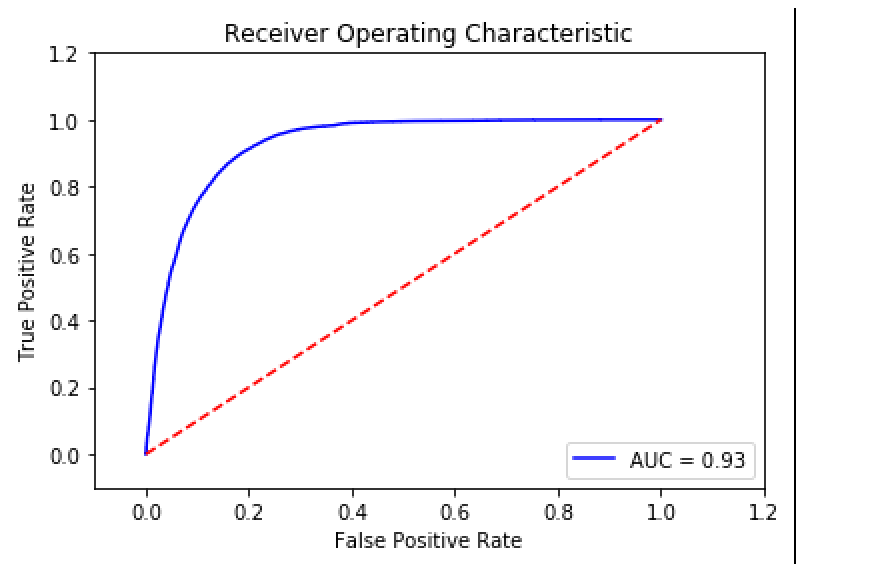
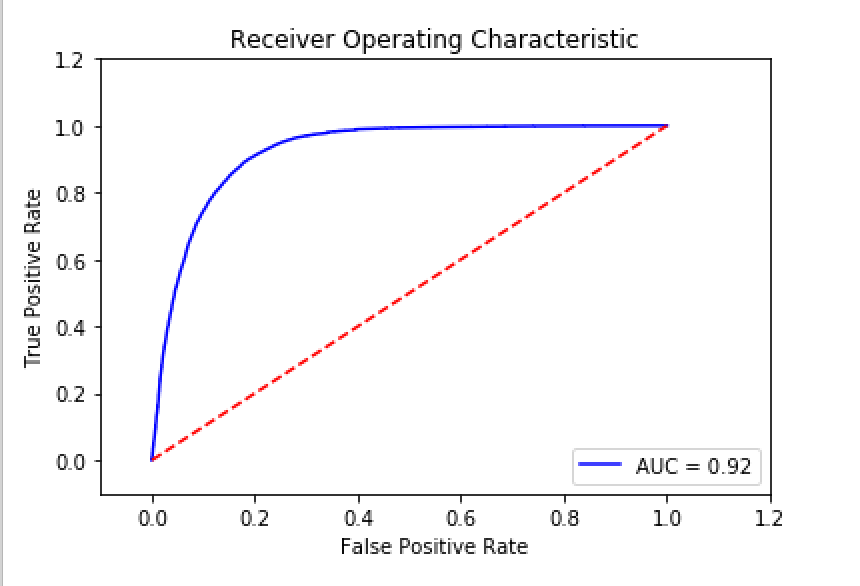
Huge Change, finalizing all of the code to turn in

diff --git a/neural_net_with_custom_splits.py b/neural_net_with_custom_splits.py
@@ -1,9 +1,9 @@
-!/usr/bin/env python2
+#!/usr/bin/env python2
 # -*- coding: utf-8 -*-
 """
 Created on Thu Jun  1 09:58:22 2017
 
-@author: vikashsingh
+@author: vikashsingh and dharma naidu
 """
 
 #CS 188 Medical Imaging Project 
@@ -29,9 +29,9 @@ from keras.optimizers import SGD
 
 
 rows_to_train = 50000
-data = pd.read_csv('~/Desktop/cs188TD.csv', header=None) 
+data = pd.read_csv('~/Desktop/cs188TD.csv', header=None)  
 
-print("Data loaded New")
+print("Data loaded New") 
 
 print(data.shape)
 data=data.dropna()
@@ -51,9 +51,17 @@ uniquepatients=data[0].unique()
 globpred=[]
 globy_test=[]
 for x in range(0,10):
-    testpatients=random.sample(uniquepatients, 6)
-    print(testpatients)
+    testlength=0
+    #Ensure that the test set has at least 5000 cases for each fold of validation
+    while(testlength<5000):
+        x=6
+        testpatients=random.sample(uniquepatients, x)
+        print(testpatients)
     
+        testdata=data[data[0].isin(testpatients)]
+        testlength=testdata.shape[0]
+        x+=1; 
+        
     testdata=data[data[0].isin(testpatients)]
     traindata=data[-(data[0].isin(testpatients))]
     #print(testdata.shape)
@@ -71,13 +79,16 @@ for x in range(0,10):
     testdataY=np.array(testdataY)
     #gnb=GaussianNB()
     #gnb.fit(traindataX, traindataY)
-    
     model = Sequential()
-    model.add(Dense(39, input_dim=618,init='uniform', activation='relu'))  
-   # model.add(Dense(39,init='uniform', activation='sigmoid'))
-    model.add(Dense(13,init='uniform', activation='sigmoid'))
-    model.add(Dense(6, init='uniform', activation='relu'))
+    model.add(Dense(19, input_dim=618,init='uniform', activation='sigmoid'))  
+    model.add(Dense(15, init='uniform', activation='sigmoid'))
+    model.add(Dense(10, init='uniform', activation='sigmoid'))
+    model.add(Dense(5, init='uniform', activation='sigmoid'))
     model.add(Dense(1, init='uniform', activation='sigmoid')) 
+
+
+
+
     print("Model started") 
 
 #odel.compile(loss='mse',  optimizer='adam', metrics=['accuracy'])
@@ -85,7 +96,7 @@ for x in range(0,10):
     model.compile(loss='binary_crossentropy', optimizer='adam', metrics=['accuracy']) 
     print("Model compiled")
     #verbose=0
-    model.fit(traindataX,traindataY, nb_epoch=100, batch_size=9, verbose=0) 
+    model.fit(traindataX,traindataY, epochs=10, batch_size=9, verbose=0) 
     
     predictionsproba = model.predict(testdataX) 
     print(roc_auc_score(testdataY, predictionsproba))
@@ -107,4 +118,4 @@ plt.ylim([-0.1,1.2])
 plt.ylabel('True Positive Rate')
 plt.xlabel('False Positive Rate') 
 plt.show()
-#plt.savefig("savedFigs/gnb") 
+#plt.savefig("savedFigs/gnb") a

diff --git a/neuralnet.py b/neuralnet.py
@@ -48,7 +48,7 @@ Y = Y.as_matrix()
 AUC=[]
 cvscores=[]
 
-kfold = StratifiedKFold(y = Y, n_folds = 3, shuffle = True, random_state = 3) 
+kfold = StratifiedKFold(y = Y, n_folds = 10, shuffle = True, random_state = 3) 
 
     
 model = Sequential()
@@ -58,10 +58,8 @@ globy_test=[]
 
 for i, (train, test) in enumerate(kfold):
     model = Sequential()
-    model.add(Dense(60, input_dim=618,init='uniform', activation='relu'))  
-    model.add(Dense(39,init='uniform', activation='sigmoid'))
-    model.add(Dense(20,init='uniform', activation='sigmoid'))
-    model.add(Dense(10, init='uniform', activation='relu'))
+    model.add(Dense(10, input_dim=618,init='uniform', activation='sigmoid'))  
+    model.add(Dense(5,init='uniform', activation='sigmoid'))
     model.add(Dense(1, init='uniform', activation='sigmoid'))
     print("Model started")
 
@@ -70,20 +68,20 @@ for i, (train, test) in enumerate(kfold):
     model.compile(loss='binary_crossentropy', optimizer='adam', metrics=['accuracy'])
     print("Model compiled")
     #verbose=0
-    model.fit(X[train], Y[train], nb_epoch=100, batch_size=9, verbose=0)
-#evaluate model
-    scores = model.evaluate(X[test], Y[test], verbose=0)
-    predictions=model.predict(X[test])
-    print("The AUC is: ")
-    print(roc_auc_score(Y[test],predictions))
-    AUC.append(roc_auc_score(Y[test],predictions))
-    print("%s: %.2f%%" % (model.metrics_names[1], scores[1]*100)) 
-    cvscores.append(scores[1] * 100)
-'''
-print(np.mean(AUC)) 
-false_positive_rate, true_positive_rate, thresholds=roc_curve(globy_test, globpred)
-roc_auc = auc(false_positive_rate, true_positive_rate)
-plt.title('Receiver Operating Characteristic')
+    model.fit(X[train],Y[train], epochs=10, batch_size=9, verbose=0) 
+    
+    predictionsproba = model.predict(X[test]) 
+    #print(roc_auc_score(Y[test], predictionsproba))
+    AUC.append(roc_auc_score(Y[test], predictionsproba)) 
+    globpred += predictionsproba.tolist()
+    globy_test += Y[test].tolist()
+    
+print "The AUC is"
+print(roc_auc_score(globy_test, globpred)) 
+
+false_positive_rate, true_positive_rate, thresholds=roc_curve(globy_test, globpred) 
+roc_auc = auc(false_positive_rate, true_positive_rate) 
+plt.title('Receiver Operating Characteristic Neural Network')
 plt.plot(false_positive_rate, true_positive_rate, 'b',
 label='AUC = %0.2f'% roc_auc)
 plt.legend(loc='lower right')
@@ -93,5 +91,3 @@ plt.ylim([-0.1,1.2])
 plt.ylabel('True Positive Rate')
 plt.xlabel('False Positive Rate') 
 plt.show()
-plt.savefig("savedFigs/cnn")'''
-

diff --git a/randomforest_with_custom_splits.py b/randomforest_with_custom_splits.py
@@ -49,13 +49,20 @@ uniquepatients=data[0].unique()
 globpred=[]
 globy_test=[]
 for x in range(0,10):
-    testpatients=random.sample(uniquepatients, 6)
-    print(testpatients)
+    testlength=0
+    print(x)
+    #Ensure that the test set has at least 5000 cases for each fold of validation
+    while(testlength<5000):
+        x=6
+        testpatients=random.sample(uniquepatients, x) 
+        #print(testpatients)
     
+        testdata=data[data[0].isin(testpatients)]
+        testlength=testdata.shape[0]
+        x+=1;           
     testdata=data[data[0].isin(testpatients)]
     traindata=data[-(data[0].isin(testpatients))]
-    #print(testdata.shape)
-    #print(traindata.shape)
+
     #X represents model input, Y represents binary labels 
     traindataX=traindata.iloc[:,4:622]
     traindataY=traindata.iloc[:,622]
@@ -83,7 +90,7 @@ print(roc_auc_score(globy_test, globpred))
 #print np.mean(AUC)
 false_positive_rate, true_positive_rate, thresholds=roc_curve(globy_test, globpred)
 roc_auc = auc(false_positive_rate, true_positive_rate)
-plt.title('Receiver Operating Characteristic Logistic Regression')
+plt.title('Receiver Operating Characteristic Random Forest')
 plt.plot(false_positive_rate, true_positive_rate, 'b',
 label='AUC = %0.2f'% roc_auc)
 plt.legend(loc='lower right')

diff --git a/logisticRegression.py b/logisticRegression.py
@@ -46,6 +46,7 @@ globy_test=[]
 
 
 for i, (train, test) in enumerate(kfold): #for each kfold
+    print(i)
     logreg = linear_model.LogisticRegression(C = 1e5) #logreg is a logistic regression model
     logreg.fit(X[train], Y[train]) #fit logreg using X and Y's train data
     predictionsproba=logreg.predict_proba(X[test])[:,1] #store prediction probability in predictproba
@@ -61,7 +62,7 @@ print(np.mean(AUC)) #print the mean AUC of all our k folds
 #graph the AUC graph
 false_positive_rate, true_positive_rate, thresholds=roc_curve(globy_test, globpred)
 roc_auc = auc(false_positive_rate, true_positive_rate)
-plt.title('Receiver Operating Characteristic')
+plt.title('Receiver Operating Characteristic Logistic Regression')
 plt.plot(false_positive_rate, true_positive_rate, 'b',
 label='AUC = %0.2f'% roc_auc)
 plt.legend(loc='lower right')
@@ -71,4 +72,4 @@ plt.ylim([-0.1,1.2])
 plt.ylabel('True Positive Rate')
 plt.xlabel('False Positive Rate') 
 plt.show()
-plt.savefig("savedFigs/logreg")
+#plt.savefig("savedFigs/logreg")

diff --git a/gnb.py b/gnb.py
@@ -49,7 +49,9 @@ globy_test=[]
 
 
 for i, (train, test) in enumerate(kfold):  #for each fold in the kfold  
+    print(i)
     gnb = GaussianNB() #create a new Gaussian Naive Bayes model
+    #print(test);
     gnb.fit(X[train], Y[train]) #train the model using data from X and Y
     predictionsproba = gnb.predict_proba(X[test])[:,1]#store prediction probability in predictproba
 
@@ -63,7 +65,7 @@ print(np.mean(AUC)) #print the mean AUC of all our k folds
 #graph the AUC graph
 false_positive_rate, true_positive_rate, thresholds=roc_curve(globy_test, globpred)
 roc_auc = auc(false_positive_rate, true_positive_rate)
-plt.title('Receiver Operating Characteristic')
+plt.title('Receiver Operating Characteristic GNB')
 plt.plot(false_positive_rate, true_positive_rate, 'b',
 label='AUC = %0.2f'% roc_auc)
 plt.legend(loc='lower right')
@@ -73,4 +75,4 @@ plt.ylim([-0.1,1.2])
 plt.ylabel('True Positive Rate')
 plt.xlabel('False Positive Rate') 
 plt.show()
-p#lt.savefig("savedFigs/gnb")
+#plt.savefig("savedFigs/gnb")

diff --git a/randomForestClassifier.py b/randomForestClassifier.py
@@ -1,4 +1,4 @@
- #!/usr/bin/env python2
+#!/usr/bin/env python2
 # -*- coding: utf-8 -*-
 """
 Created on Sun May 28 12:11:53 2017
@@ -44,6 +44,7 @@ globpred=[]
 globy_test=[]
 
 for i, (train, test) in enumerate(kfold):    
+    print(i)
     forest = RandomForestClassifier(n_estimators = 100) #make a random forest with 100 estimators
     forest.fit(X[train], Y[train]) #fit the data using X and Y
     predictionsproba = forest.predict_proba(X[test])[:,1] #make predictions for the model
@@ -61,7 +62,7 @@ print(np.mean(AUC)) #print the mean AUC of all our k folds
 #graph the AUC graph
 false_positive_rate, true_positive_rate, thresholds=roc_curve(globy_test, globpred)
 roc_auc = auc(false_positive_rate, true_positive_rate)
-plt.title('Receiver Operating Characteristic')
+plt.title('Receiver Operating Characteristic Random Forest')
 plt.plot(false_positive_rate, true_positive_rate, 'b',
 label='AUC = %0.2f'% roc_auc)
 plt.legend(loc='lower right')

diff --git a/gnb_with_custom_splits.py b/gnb_with_custom_splits.py
@@ -51,9 +51,17 @@ uniquepatients=data[0].unique()
 globpred=[]
 globy_test=[]
 for x in range(0,10):
-    testpatients=random.sample(uniquepatients, 6)
-    print(testpatients)
+    testlength=0
+    #Ensure that the test set has at least 5000 cases for each fold of validation
+    while(testlength<5000):
+        x=6
+        testpatients=random.sample(uniquepatients, x)
+        print(testpatients)
     
+        testdata=data[data[0].isin(testpatients)]
+        testlength=testdata.shape[0]
+        x+=1; 
+        
     testdata=data[data[0].isin(testpatients)]
     traindata=data[-(data[0].isin(testpatients))]
     #print(testdata.shape)

diff --git a/logreg_with_custom_splits.py b/logreg_with_custom_splits.py
@@ -49,8 +49,16 @@ uniquepatients=data[0].unique()
 globpred=[]
 globy_test=[]
 for x in range(0,10):
-    testpatients=random.sample(uniquepatients, 6)
-    print(testpatients)
+    testlength=0
+    #Ensure that the test set has at least 5000 cases for each fold of validation
+    while(testlength<5000):
+        x=6
+        testpatients=random.sample(uniquepatients, x)
+        print(testpatients)
+    
+        testdata=data[data[0].isin(testpatients)]
+        testlength=testdata.shape[0]
+        x+=1; 
     
     testdata=data[data[0].isin(testpatients)]
     traindata=data[-(data[0].isin(testpatients))]
